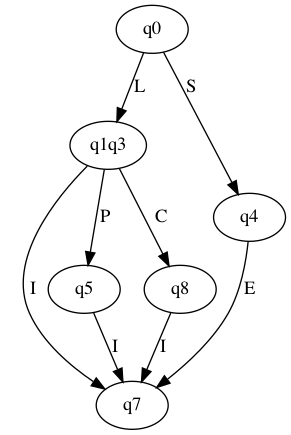
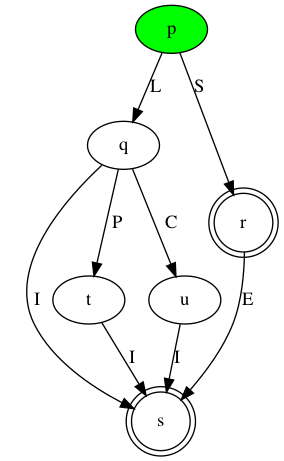
clean up

diff --git a/main.py b/main.py
@@ -1,9 +1,6 @@
 # TODO
-# * handle "empty symbol"
-# * optimize coverter
-# * write "pydoc"
-# * update and improve git docs
-# ?* write report
+# * handle "empty symbol" - Tasca
+# * update and improve git docs - Panho
 
 import copy
 import networkx as nx
@@ -19,7 +16,6 @@ class automata:
 
 
 def readFile(file_path):
-    # see regex. maybe theres a better way to process the file
     with open(file_path) as file:
         lines = file.readlines()
         for i in range(len(lines)):
@@ -38,37 +34,25 @@ def readFile(file_path):
 
 
 def nd2d_converter(rfile, nd_automata):
-    states = rfile[0][0].split(",")
-    # print("states: " + str(states))
-    gramatic = rfile[0][1].split(",")
-    # print("gramatic: " + str(gramatic))
-    initial_state = rfile[0][2]
-    # print("initial_state: " + str(initial_state))
-    final_states = rfile[0][3].split(",")
-    # print("final_states: " + str(final_states))
-
-    a1 = automata(states, gramatic, initial_state, final_states)
+    a1 = automata(
+        states=rfile[0][0].split(","),
+        gramatic=rfile[0][1].split(","),
+        initial_state=rfile[0][2],
+        final_states=rfile[0][3].split(",")
+    )
 
     for node in a1.states:
-        if(node in a1.final_states):
-            nd_automata.add_node(node, final=True)
-        else:
-            nd_automata.add_node(node, final=False)
+        nd_automata.add_node(
+            node, initial=node in a1.initial_state, final=node in a1.final_states)
 
     for func in rfile[1:]:
         nd_automata.add_edge(func[0], func[2],
                              label=func[1])
 
-    # notes from the dev: good luck trying understanding this little mf
-
-    grammy = {}
-    for sym in gramatic:
-        grammy[sym] = []
-
-    open_list = []
+    grammy = {sym: [] for sym in a1.gramatic}
+    open_list = [[a1.initial_state]]
     closed_list = []
     new_automata = {}
-    open_list.append([initial_state])
     while(len(open_list) > 0):
         # print("open_list" + str(open_list))
         # print("closed_list" + str(closed_list))
@@ -78,27 +62,21 @@ def nd2d_converter(rfile, nd_automata):
                 # print("neighbor: " + str(neighbor))
                 edges = nd_automata.get_edge_data(element, neighbor)
                 for sym in edges:
-                    if(not (neighbor in grammy[edges[sym]["label"]])):
+                    if(neighbor not in grammy[edges[sym]["label"]]):
                         grammy[edges[sym]["label"]].append(neighbor)
                     grammy[edges[sym]["label"]].sort()
             # print("grammy: " + str(grammy))
         new_automata["".join(open_list[0])] = copy.deepcopy(grammy.copy())
-        # print(new_automata)
+        # print("new_automatta: " + str(new_automata))
         # print("dict(grammy): " + str(dict(grammy)))
         closed_list.append(open_list.pop(0))
         for sym in grammy:
-            if (not grammy[sym] == []):
-                if(not ((grammy[sym] in open_list) or (grammy[sym] in closed_list))):
-                    grammy[sym].sort()
-                    open_list.append(grammy[sym])
-                grammy[sym] = []
+            if (not grammy[sym] == [] and grammy[sym] not in open_list and closed_list):
+                open_list.append(grammy[sym])
+            grammy[sym] = []
     for i, node in enumerate(new_automata):
-        if(node in a1.initial_state):  # CONFERIR
-            d_automata.add_node(node, initial=True, final=False)
-        elif(closed_list[i][len(closed_list[i])-1] in a1.final_states):
-            d_automata.add_node(node, initial=False, final=True)
-        else:
-            d_automata.add_node(node, initial=False, final=False)
+        d_automata.add_node(node, initial=node in a1.initial_state,
+                            final=closed_list[i][len(closed_list[i])-1] in a1.final_states)
 
     for node in new_automata:
         for edge in new_automata[node]:
@@ -111,14 +89,17 @@ def nd2d_converter(rfile, nd_automata):
 def wordProcessing(rfile, d_automata, input):
     initial_state = rfile[0][2]
     current = initial_state
+    temp = ""
     for letter in input:
         if (letter not in rfile[0][1]):
-            return "a palavra contem uma letra que nao esta no dicionario"
+            return "A palavra contém uma letra que não está na gramática!"
         for neighbor in d_automata.neighbors(current):
             edges = d_automata.get_edge_data(current, neighbor)
             for sym in edges:
                 if(letter == edges[sym]["label"]):
-                    current = neighbor
+                    temp = neighbor
+        current = temp
+
     for node in d_automata.nodes(data=True):
         if(node[0] == current):
             return node[1]["final"]
@@ -130,19 +111,35 @@ nd_automata = nx.MultiDiGraph()
 d_automata = nx.MultiDiGraph()
 
 nd2d_converter(rfile, nd_automata)
-print(wordProcessing(rfile, d_automata, ""))
+print(wordProcessing(rfile, d_automata, "LI"))
 
-old_names = list(d_automata.nodes())
+# old_names = list(d_automata.nodes())
 
-name_map = dict.fromkeys(old_names)
-for i in range(len(old_names)):
-    name_map[old_names[i]] = old_names[i]
-d_automata = nx.relabel_nodes(d_automata, name_map)
+# name_map = dict.fromkeys(old_names)
+mapping = dict(zip(d_automata.nodes(), "pqrstuvwxyzabcdefghijklmno"))
+d_automata = nx.relabel_nodes(d_automata, mapping)
 
+final = list(filter(lambda x: x[1]['final'] ==
+             True, nd_automata.nodes(data=True)))
+initial = list(filter(lambda x: x[1]['initial'] ==
+                      True, nd_automata.nodes(data=True)))[0][0]
+nd_automata.nodes[initial]['style'] = 'filled'
+nd_automata.nodes[initial]['fillcolor'] = 'green'
+for f in final:
+    nd_automata.nodes[f[0]]['shape'] = 'doublecircle'
 A = nx.nx_agraph.to_agraph(nd_automata)
 A.layout(prog="dot")
 A.draw("automatons/nd_automata.png")
 
+# print(d_automata.nodes(data=True))
+final = list(filter(lambda x: x[1]['final'] ==
+             True, d_automata.nodes(data=True)))
+initial = list(filter(lambda x: x[1]['initial'] ==
+                      True, d_automata.nodes(data=True)))[0][0]
+d_automata.nodes[initial]['style'] = 'filled'
+d_automata.nodes[initial]['fillcolor'] = 'green'
+for f in final:
+    d_automata.nodes[f[0]]['shape'] = 'doublecircle'
 B = nx.nx_agraph.to_agraph(d_automata)
 B.layout(prog="dot")
 B.draw("automatons/d_automata.png")
